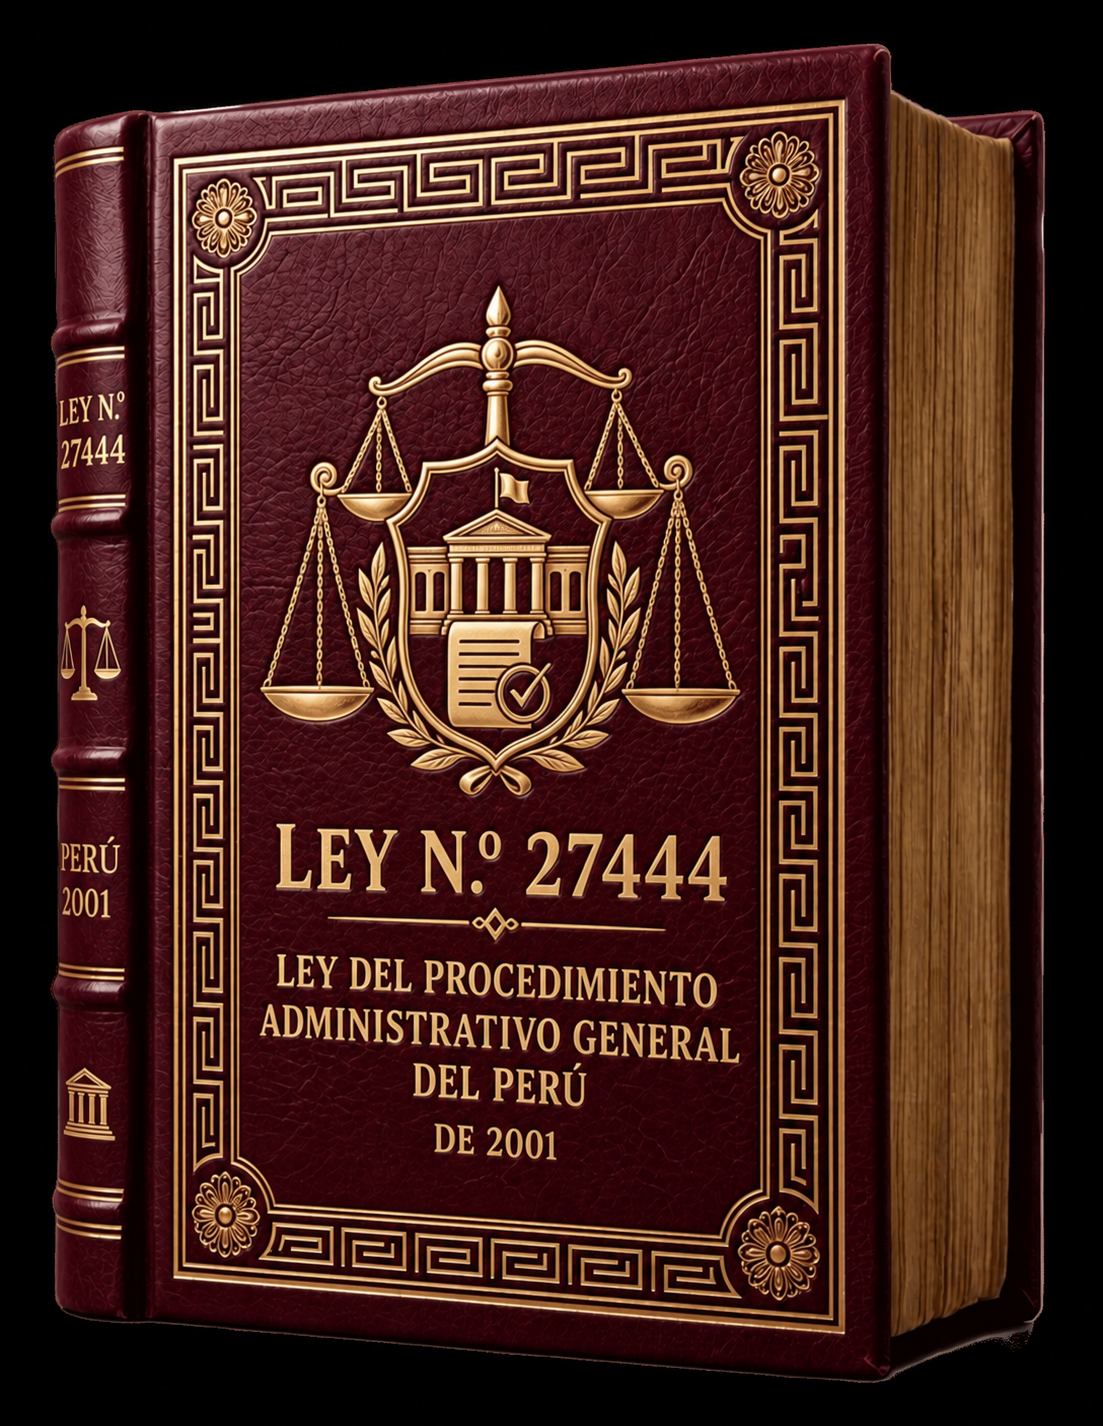
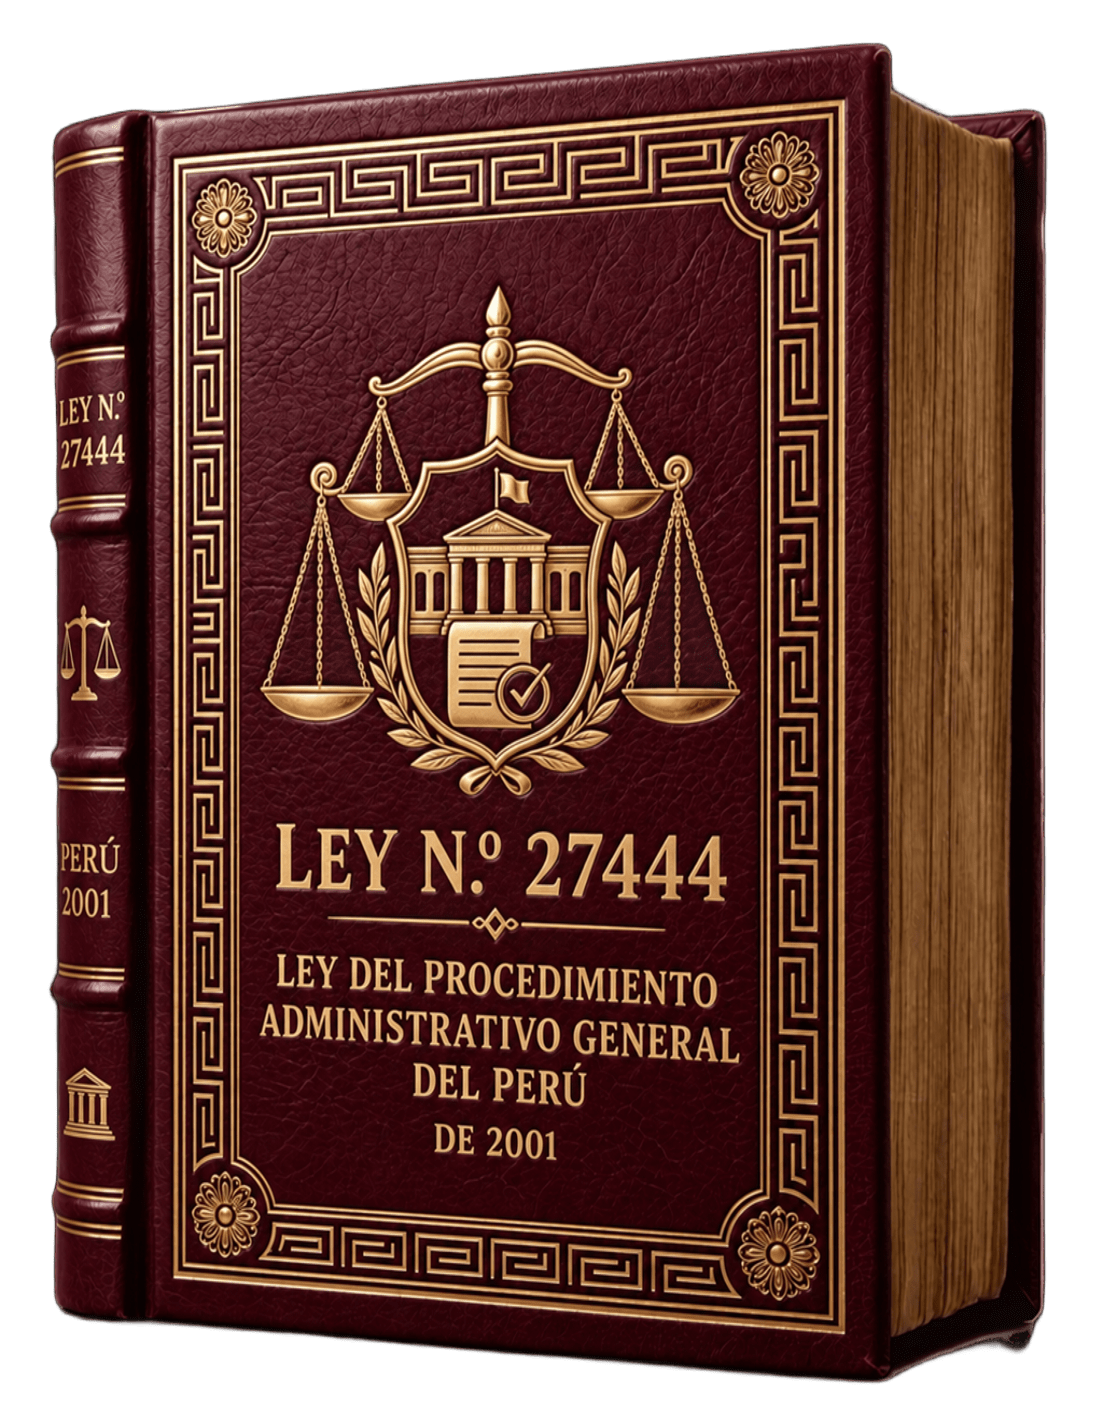
fix: update law 27444 cover

Changed region(s): [[0.0, 0.0, 1.0, 1.0]]

diff --git a/sw.js b/sw.js
@@ -1,4 +1,4 @@
-const CACHE_NAME = 'lne-cache-v16';
+const CACHE_NAME = 'lne-cache-v17';
 
 // Archivos clave para precargar durante la instalación
 const PRECACHE_ASSETS = [
